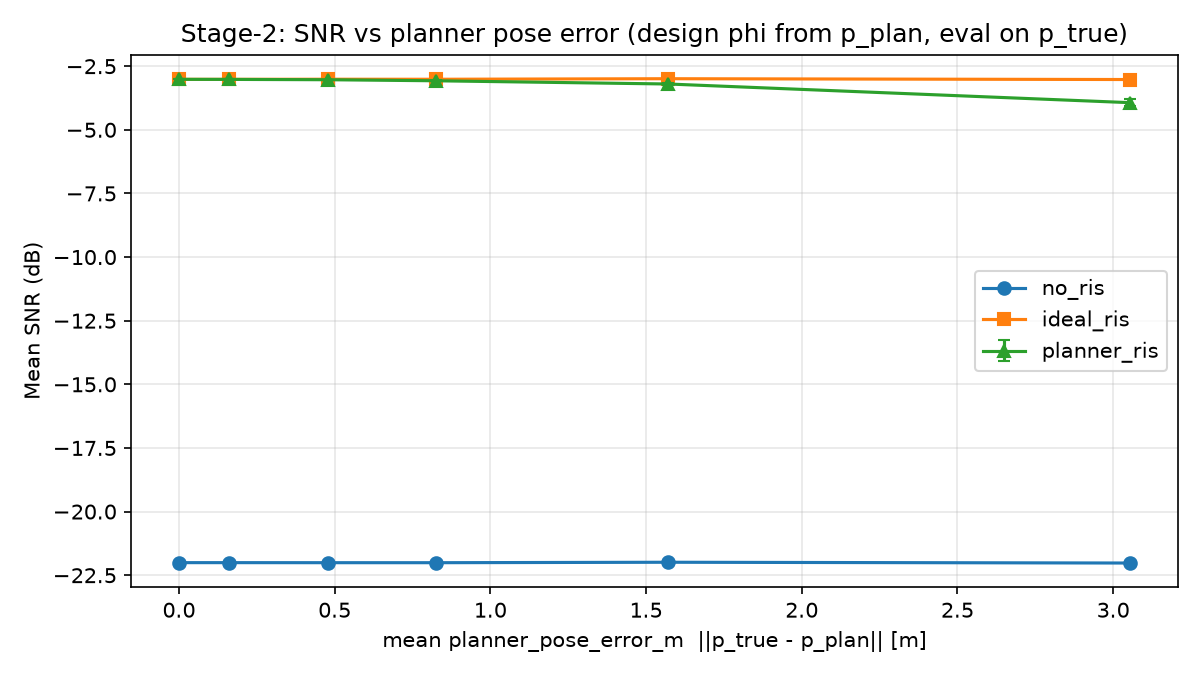
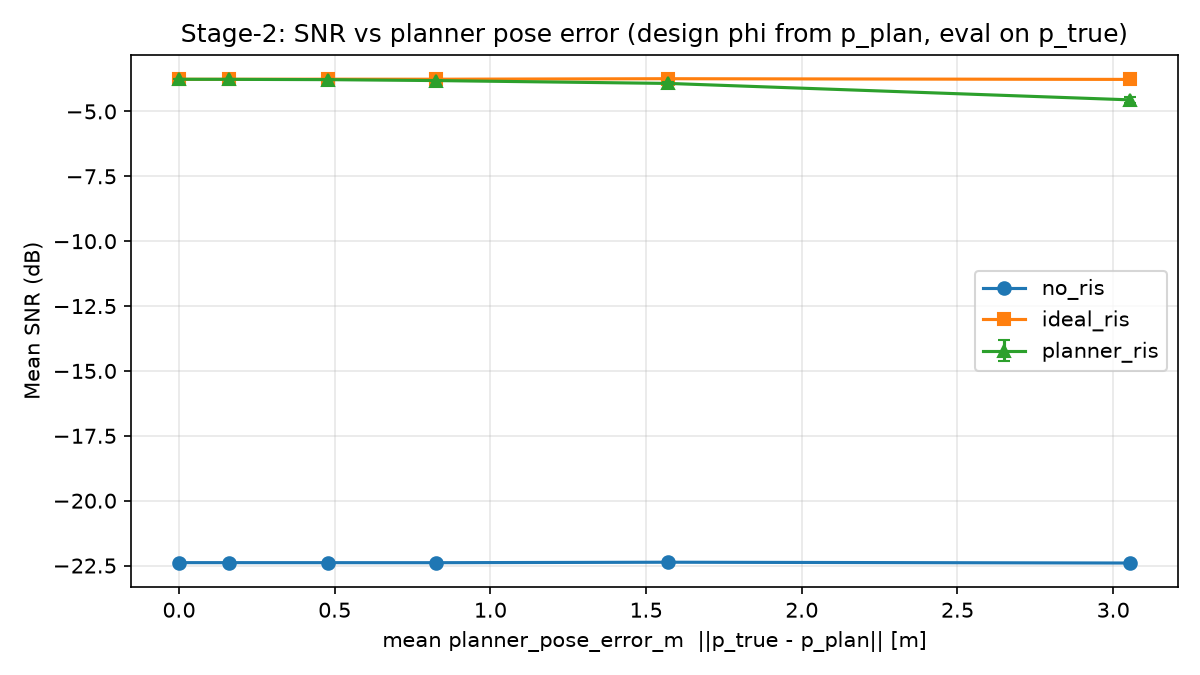
A*算法解读备注

diff --git a/Physical_model/motion_planner/path_planner.py b/Physical_model/motion_planner/path_planner.py
@@ -18,7 +18,7 @@ from Physical_model.motion_planner.grid_map import (
     world_to_cell,
 )
 
-# 8-connected moves: (dix, diy, cost)
+# 8-connected moves: (dix, diy, cost) 8邻域空间集定义
 _NEIGHBORS: tuple[tuple[int, int, float], ...] = (
     (-1, 0, 1.0),
     (1, 0, 1.0),
@@ -30,11 +30,12 @@ _NEIGHBORS: tuple[tuple[int, int, float], ...] = (
     (1, 1, float(np.sqrt(2.0))),
 )
 
-
+# 欧式距离
 def _heuristic(a: tuple[int, int], b: tuple[int, int]) -> float:
     return float(np.hypot(a[0] - b[0], a[1] - b[1]))
 
-
+# 函数作用是：如果用户传入的起点或终点不小心踩在了障碍物格里，代码不会直接报错崩溃，而是会自动向外螺线搜索最近的自由网格作为真正的起终点。
+# 函数通过螺旋式外扩搜索（曼哈顿距离层层向外扩展，最大半径 20 格），寻找离原始坐标最近的安全自由网格，保证算法能够顺利起步和收尾
 def _nearest_free(
     ix: int,
     iy: int,
@@ -56,7 +57,7 @@ def _nearest_free(
                     return jx, jy
     raise RuntimeError(f"no free cell near ({ix}, {iy})")
 
-
+#A*实现路径规划
 def plan_path_astar(
     grid: np.ndarray,
     start_xy: np.ndarray | tuple[float, float],
@@ -67,6 +68,7 @@ def plan_path_astar(
 
     中文简释：A* 搜索；输出世界坐标折线（至少含起终点）。
     """
+    #将世界坐标（米）转换成栅格坐标（像素/铬）
     sx, sy = world_to_cell(start_xy, spec)
     gx, gy = world_to_cell(goal_xy, spec)
     if not in_bounds(sx, sy, spec) or not in_bounds(gx, gy, spec):
@@ -74,39 +76,49 @@ def plan_path_astar(
     start = _nearest_free(sx, sy, grid, spec)
     goal = _nearest_free(gx, gy, grid, spec)
 
-    open_heap: list[tuple[float, int, tuple[int, int]]] = []
-    counter = 0
+    # 核心数据结构
+    open_heap: list[tuple[float, int, tuple[int, int]]] = [] #优先队列
+    counter = 0 #计数器
     heapq.heappush(open_heap, (0.0, counter, start))
-    came_from: dict[tuple[int, int], tuple[int, int] | None] = {start: None}
-    g_score: dict[tuple[int, int], float] = {start: 0.0}
+    came_from: dict[tuple[int, int], tuple[int, int] | None] = {start: None} #父节点指针字典,记录每一个节点是哪一个来的
+    g_score: dict[tuple[int, int], float] = {start: 0.0} #实际代价字典，从起点开始到当前仍意节点的实际开销
 
     while open_heap:
         _f, _c, current = heapq.heappop(open_heap)
+        #弹出最优节点，如果是终点，直接跳出循环
         if current == goal:
             break
         cx, cy = current
+        #遍历8邻域与防切角
         for dix, diy, step in _NEIGHBORS:
             nx, ny = cx + dix, cy + diy
             if not is_free(nx, ny, grid, spec):
                 continue
-            # Discourage cutting corners through occupied diagonals
+            # Discourage cutting corners through occupied diagonals（当机器人斜向移动的时候）
             if dix != 0 and diy != 0:
+                # 如果斜向不是自由空间，那么不会进入这里找路径节点
                 if (not is_free(cx + dix, cy, grid, spec)) or (
                     not is_free(cx, cy + diy, grid, spec)
                 ):
                     continue
+            # 当前节点到达邻居的新代价
             tentative = g_score[current] + step
             neigh = (nx, ny)
+            # 如果这个新代价比以往记录的代价更小（或者邻居从未被访问过），说明找到了更好的一条路：
             if tentative < g_score.get(neigh, float("inf")):
+                # 更新其父节点 came_from
                 came_from[neigh] = current
+                # 更新其 g_score
                 g_score[neigh] = tentative
+                #计算综合代价 f = g + h（其中 h 由欧几里得距离 _heuristic 提供）
                 f = tentative + _heuristic(neigh, goal)
                 counter += 1
+                # 压入优先队列
                 heapq.heappush(open_heap, (f, counter, neigh))
     else:
         raise RuntimeError("A* failed: no path from start to goal")
 
-    # Reconstruct
+    # Reconstruct 路径回溯
     cells: list[tuple[int, int]] = []
     node: tuple[int, int] | None = goal
     while node is not None:
@@ -114,6 +126,7 @@ def plan_path_astar(
         node = came_from[node]
     cells.reverse()
 
+    # 将栅格化路径再返还成世界模型（x,y）
     waypoints = [cell_to_world(ix, iy, spec) for ix, iy in cells]
     # Snap first/last to exact requested start/goal (still free-checked upstream)
     waypoints[0] = np.asarray(start_xy, dtype=float).reshape(2)
